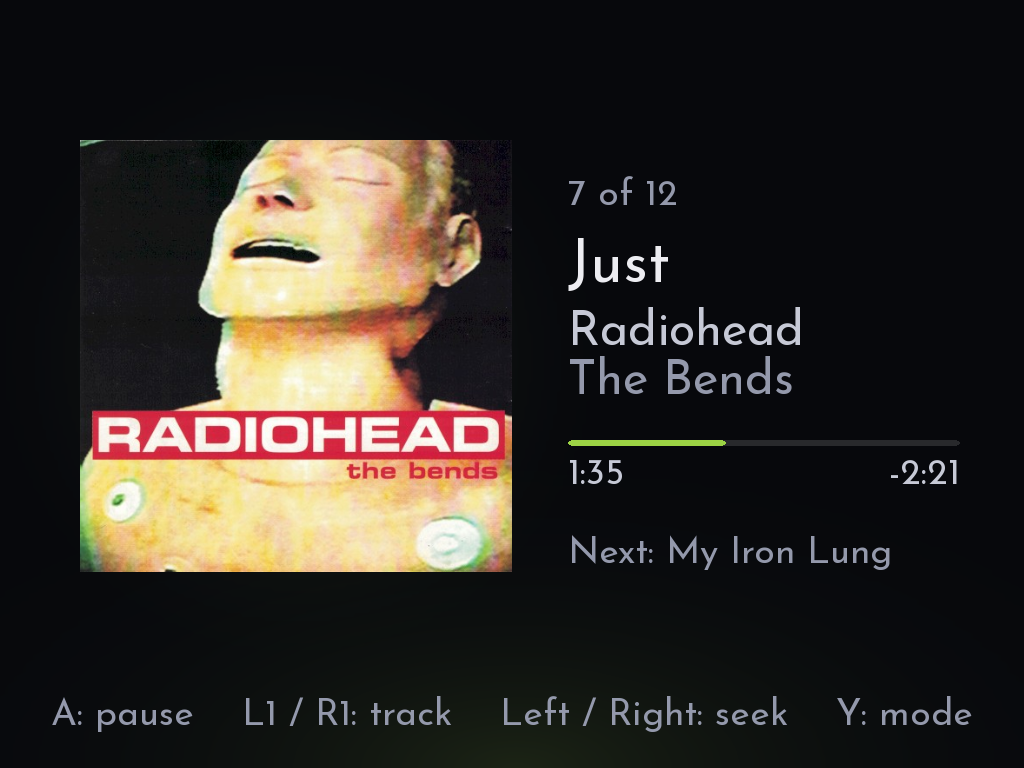
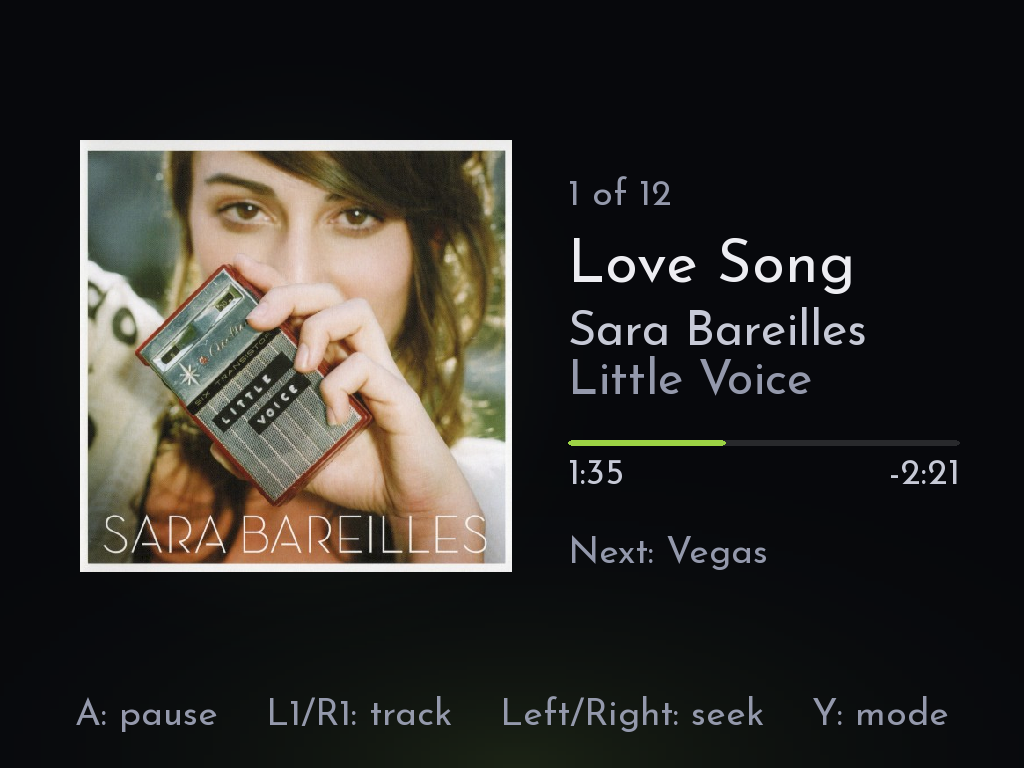
README: center the screenshot grid, and Now Playing on a different album

diff --git a/README.md b/README.md
@@ -20,6 +20,8 @@
   <img src="res/readme/shelf.png" alt="The SNES shelf, with Chrono Trigger in focus" width="100%">
 </p>
 
+<div align="center">
+
 <table>
   <tr>
     <td align="center" colspan="2"><img src="res/readme/systems.png" width="240" alt="The consoles row"><br><sub>Scroll horizontally</sub></td>
@@ -36,6 +38,8 @@
     <td align="center" colspan="3"><img src="res/readme/nowplaying.png" width="240" alt="Muse's Now Playing"><br><sub>Now Playing, on SELECT from anywhere</sub></td>
   </tr>
 </table>
+
+</div>
 
 ## Why TortOS
 
